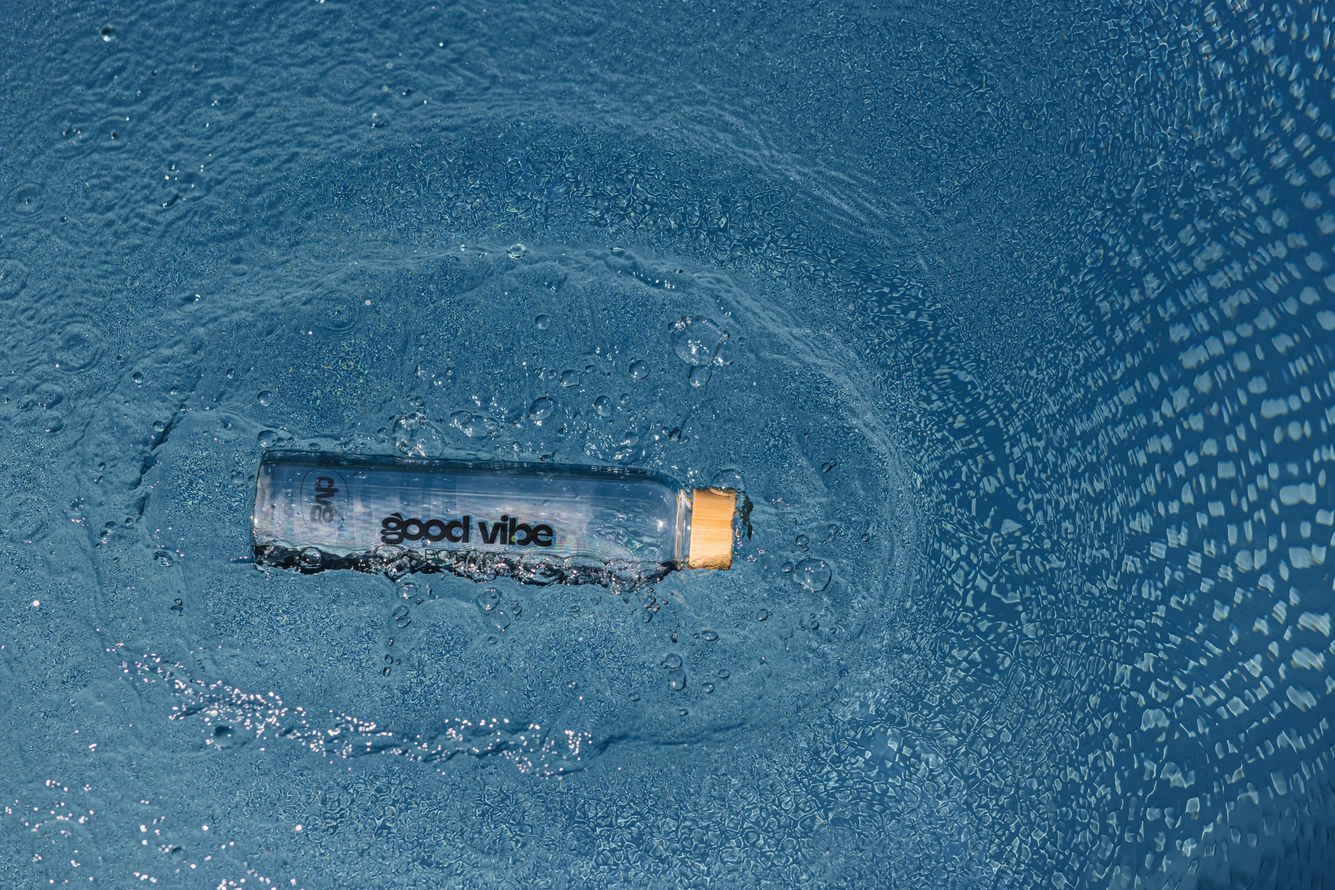
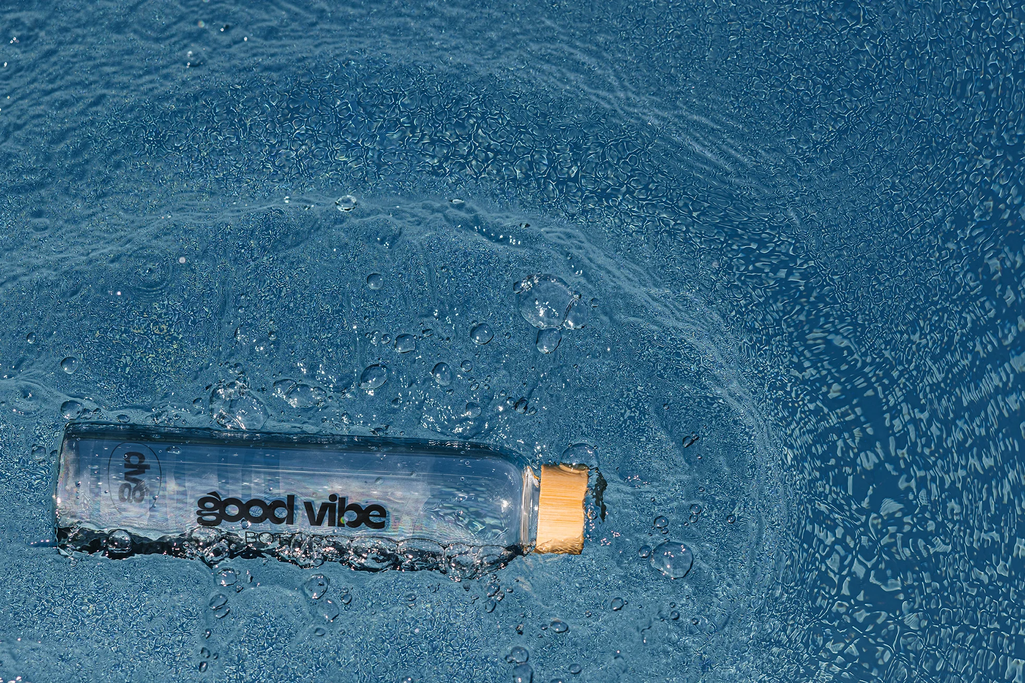
Lösungen hero: new image + reframe per viewport
- New hero image (1966x1311 WebP @ q85, ~1.0 MB, was 1.15 MB).
  Replaced /assets/img/hero-losungen.webp; both DE and EN patterns
  pick it up automatically (same path).
- Removed transform: scale(1.45) — new image needs no zoom, sits at
  natural object-fit cover framing.
- Phone-only reframe: ≤480 gets object-position: 10% 85% (new), pushes
  the bottle further right than the tablet override (30% 85%) so the
  subject reads correctly on portrait phone widths.

diff --git a/style.css b/style.css
@@ -736,14 +736,11 @@ html {
 }
 
 .gvb-hero__bg--losungen {
-  /* X 100 anchors source-right at container-right so the centred
-     subject lands on the left of the frame. Y 85 pushes the subject
-     visually up (high Y anchors source-bottom near container-bottom,
-     so the subject lifts within the frame). Scale 1.45 zooms in;
-     with object-fit: cover the image stays edge-to-edge so nothing
-     reveals off-image. */
+  /* New image (2026-05-01): scale removed (was 1.45). object-fit: cover
+     fills the container at natural framing. object-position kept for
+     X-axis subject placement — adjust if subject needs reframing. */
   object-position: 100% 85% !important;
-  transform: scale(1.45);
+  transform: none;
 }
 
 /* FAQ hero: zoom + push subject toward LEFT of frame.
@@ -5853,6 +5850,14 @@ html {
   /* ── Global typography + button scale for mobile ── */
   h1, .has-h-1-font-size { font-size: 34px !important; }
   h2, .has-h-2-font-size { font-size: 26px !important; }
+
+  /* Lösungen hero: at phone width push subject further right than the
+     tablet override (X 30% → X 10%). Lower X slides the visible window
+     LEFT over the wider source image, so the fixed-position subject
+     appears further to the RIGHT within the visible frame. */
+  .gvb-hero__bg--losungen {
+    object-position: 10% 85% !important;
+  }
   .has-display-font-size  { font-size: 38px !important; }
 
   .gvb-btn--primary,
